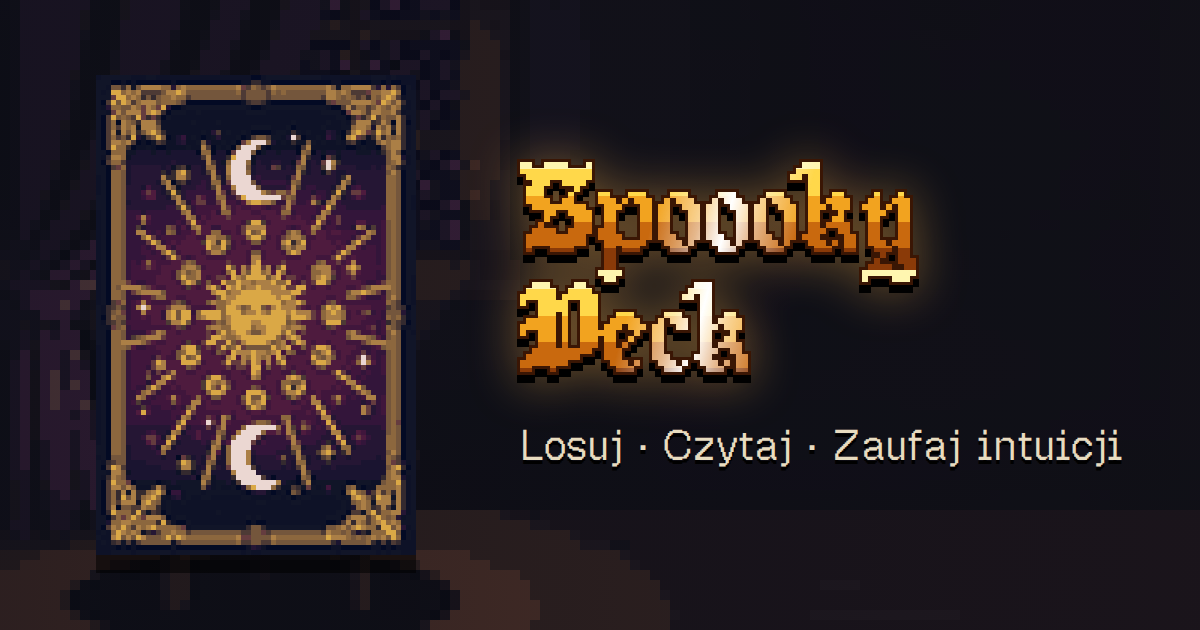
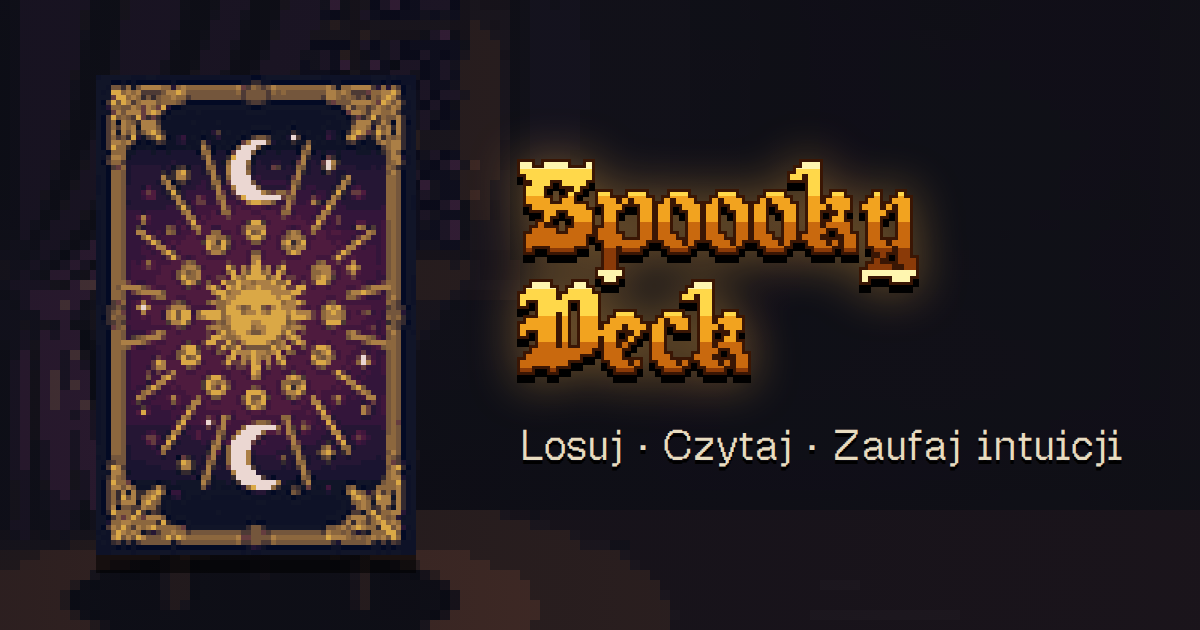
Link preview and GitHub preview: gold title without the white shine band (og v=7)

Changed region(s): [[0.5242, 0.2714, 0.6783, 0.4222], [0.4933, 0.4524, 0.6475, 0.6032]]

diff --git a/sw.js b/sw.js
@@ -1,5 +1,5 @@
 // Service worker Spoooky Deck. Plik sw.js jest generowany przez tools/build_sw.py (wersja = skrót zawartości plików).
-const VERSION = '8c46365311';
+const VERSION = 'b1901e01b1';
 const CACHE = 'spooooky-' + VERSION;
 const FILES = ["./", "css/cards.css", "css/fonts.css", "css/style.css", "css/theme.css", "data/cards.json", "data/grammar.en.json", "data/grammar.pl.json", "data/ui.en.json", "data/ui.pl.json", "data/zodiac.en.json", "data/zodiac.pl.json", "fonts/OldEnglishGothicPixel-OFL.txt", "fonts/OldEnglishGothicPixel.ttf", "fonts/OldeTome.ttf", "fonts/geistpixel-latin-ext.woff2", "fonts/geistpixel-latin.woff2", "fonts/jacquard12-latin-ext.woff2", "fonts/jacquard12-latin.woff2", "img/cards/ar00.png", "img/cards/ar01.png", "img/cards/ar02.png", "img/cards/ar03.png", "img/cards/ar04.png", "img/cards/ar05.png", "img/cards/ar06.png", "img/cards/ar07.png", "img/cards/ar08.png", "img/cards/ar09.png", "img/cards/ar10.png", "img/cards/ar11.png", "img/cards/ar12.png", "img/cards/ar13.png", "img/cards/ar14.png", "img/cards/ar15.png", "img/cards/ar16.png", "img/cards/ar17.png", "img/cards/ar18.png", "img/cards/ar19.png", "img/cards/ar20.png", "img/cards/ar21.png", "img/cards/cu01.png", "img/cards/cu02.png", "img/cards/cu03.png", "img/cards/cu04.png", "img/cards/cu05.png", "img/cards/cu06.png", "img/cards/cu07.png", "img/cards/cu08.png", "img/cards/cu09.png", "img/cards/cu10.png", "img/cards/cu11.png", "img/cards/cu12.png", "img/cards/cu13.png", "img/cards/cu14.png", "img/cards/pe01.png", "img/cards/pe02.png", "img/cards/pe03.png", "img/cards/pe04.png", "img/cards/pe05.png", "img/cards/pe06.png", "img/cards/pe07.png", "img/cards/pe08.png", "img/cards/pe09.png", "img/cards/pe10.png", "img/cards/pe11.png", "img/cards/pe12.png", "img/cards/pe13.png", "img/cards/pe14.png", "img/cards/sw01.png", "img/cards/sw02.png", "img/cards/sw03.png", "img/cards/sw04.png", "img/cards/sw05.png", "img/cards/sw06.png", "img/cards/sw07.png", "img/cards/sw08.png", "img/cards/sw09.png", "img/cards/sw10.png", "img/cards/sw11.png", "img/cards/sw12.png", "img/cards/sw13.png", "img/cards/sw14.png", "img/cards/wa01.png", "img/cards/wa02.png", "img/cards/wa03.png", "img/cards/wa04.png", "img/cards/wa05.png", "img/cards/wa06.png", "img/cards/wa07.png", "img/cards/wa08.png", "img/cards/wa09.png", "img/cards/wa10.png", "img/cards/wa11.png", "img/cards/wa12.png", "img/cards/wa13.png", "img/cards/wa14.png", "img/emoji/U+1F30D.png", "img/emoji/U+1F319.png", "img/emoji/U+1F377.png", "img/emoji/U+1F3C6.png", "img/emoji/U+1F4A7.png", "img/emoji/U+1F4A8.png", "img/emoji/U+1F507.png", "img/emoji/U+1F50A.png", "img/emoji/U+1F525.png", "img/emoji/U+1F53A.png", "img/emoji/U+1F53B.png", "img/emoji/U+1FA99.png", "img/emoji/U+2648.png", "img/emoji/U+2649.png", "img/emoji/U+264A.png", "img/emoji/U+264B.png", "img/emoji/U+264C.png", "img/emoji/U+264D.png", "img/emoji/U+264E.png", "img/emoji/U+264F.png", "img/emoji/U+2650.png", "img/emoji/U+2651.png", "img/emoji/U+2652.png", "img/emoji/U+2653.png", "img/emoji/U+2694.png", "img/emoji/U+2728.png", "img/icons/apple-touch-icon.png", "img/icons/favicon-16.png", "img/icons/favicon-32.png", "img/icons/icon-192.png", "img/icons/icon-512.png", "img/icons/icon-maskable-512.png", "img/og-bg.png", "img/og.png", "img/ui/back.png", "img/ui/bg-card.png", "img/ui/bg-intro.png", "img/ui/bg-pick.png", "img/ui/bg-read.png", "img/ui/btn-alt.png", "img/ui/btn.png", "img/ui/candle.png", "img/ui/cardframe.png", "img/ui/cursor.png", "img/ui/emblem.png", "img/ui/frame.png", "img/ui/ic-candle.png", "img/ui/ic-industry.png", "img/ui/ic-stage.png", "img/ui/ic-stars.png", "img/ui/ic-tower.png", "img/ui/picture-frame.png", "img/ui/shine.png", "index.html", "js/app.js", "js/audio.js", "js/deck.js", "js/fx.js", "js/oracle.js", "js/share.js", "js/vendor/seedrandom.min.js", "js/vendor/tracery.js", "js/vendor/zzfx.js", "manifest.webmanifest"];
 

diff --git a/index.html b/index.html
@@ -15,7 +15,7 @@
 <meta property="og:title" content="Spoooky Deck">
 <meta property="og:description" content="Losuj · Czytaj · Zaufaj intuicji. Wyrocznia tarota dla firm.">
 <meta property="og:url" content="https://whosz.pl/tarot/">
-<meta property="og:image" content="https://whosz.pl/tarot/img/og.png?v=6">
+<meta property="og:image" content="https://whosz.pl/tarot/img/og.png?v=7">
 <meta property="og:image:type" content="image/png">
 <meta property="og:image:alt" content="Rewers karty tarota ze złotym słońcem i księżycami oraz napis Spoooky Deck: Losuj, Czytaj, Zaufaj intuicji">
 <meta property="og:locale" content="pl_PL">
@@ -24,7 +24,7 @@
 <meta name="twitter:card" content="summary_large_image">
 <meta name="twitter:title" content="Spoooky Deck">
 <meta name="twitter:description" content="Losuj · Czytaj · Zaufaj intuicji. Wyrocznia tarota dla firm.">
-<meta name="twitter:image" content="https://whosz.pl/tarot/img/og.png?v=6">
+<meta name="twitter:image" content="https://whosz.pl/tarot/img/og.png?v=7">
 <meta name="twitter:image:alt" content="Rewers karty tarota ze złotym słońcem i księżycami oraz napis Spoooky Deck">
 <link rel="apple-touch-icon" href="img/icons/apple-touch-icon.png">
 <meta name="apple-mobile-web-app-capable" content="yes">
@@ -34,10 +34,10 @@
 <link rel="preload" href="fonts/jacquard12-latin-ext.woff2" as="font" type="font/woff2" crossorigin>
 <link rel="preload" href="fonts/geistpixel-latin.woff2" as="font" type="font/woff2" crossorigin>
 <link rel="preload" href="fonts/geistpixel-latin-ext.woff2" as="font" type="font/woff2" crossorigin>
-<link rel="stylesheet" href="css/fonts.css?v=190">
-<link rel="stylesheet" href="css/style.css?v=190">
-<link rel="stylesheet" href="css/cards.css?v=190">
-<link rel="stylesheet" href="css/theme.css?v=190">
+<link rel="stylesheet" href="css/fonts.css?v=191">
+<link rel="stylesheet" href="css/style.css?v=191">
+<link rel="stylesheet" href="css/cards.css?v=191">
+<link rel="stylesheet" href="css/theme.css?v=191">
 </head>
 <body>
 <div id="phone">
@@ -130,6 +130,6 @@
 <script src="js/vendor/seedrandom.min.js"></script>
 <script src="js/vendor/tracery.js"></script>
 <script src="js/vendor/zzfx.js"></script>
-<script type="module" src="js/app.js?v=190"></script>
+<script type="module" src="js/app.js?v=191"></script>
 </body>
 </html>

diff --git a/js/app.js b/js/app.js
@@ -1,8 +1,8 @@
-import { draw, loadHistory, saveHistory, newSeed } from './deck.js?v=190';
-import { compose, INDUSTRIES, STAGES } from './oracle.js?v=190';
-import { startBg, revealFx, tiltCard, enableGyro, startAmbient, stopAmbient, setTheme, resetTheme, sparkleCard, flickerTitle, cursorSparks } from './fx.js?v=190';
-import { shareImage } from './share.js?v=190';
-import { start as startAudio, sfx, toggleMute, isMuted, audioError } from './audio.js?v=190';
+import { draw, loadHistory, saveHistory, newSeed } from './deck.js?v=191';
+import { compose, INDUSTRIES, STAGES } from './oracle.js?v=191';
+import { startBg, revealFx, tiltCard, enableGyro, startAmbient, stopAmbient, setTheme, resetTheme, sparkleCard, flickerTitle, cursorSparks } from './fx.js?v=191';
+import { shareImage } from './share.js?v=191';
+import { start as startAudio, sfx, toggleMute, isMuted, audioError } from './audio.js?v=191';
 
 const $ = s => document.querySelector(s);
 const OFFER = 'https://whosz.pl/offer/?utm_source=tarot&utm_medium=app&utm_campaign=wrozba';
